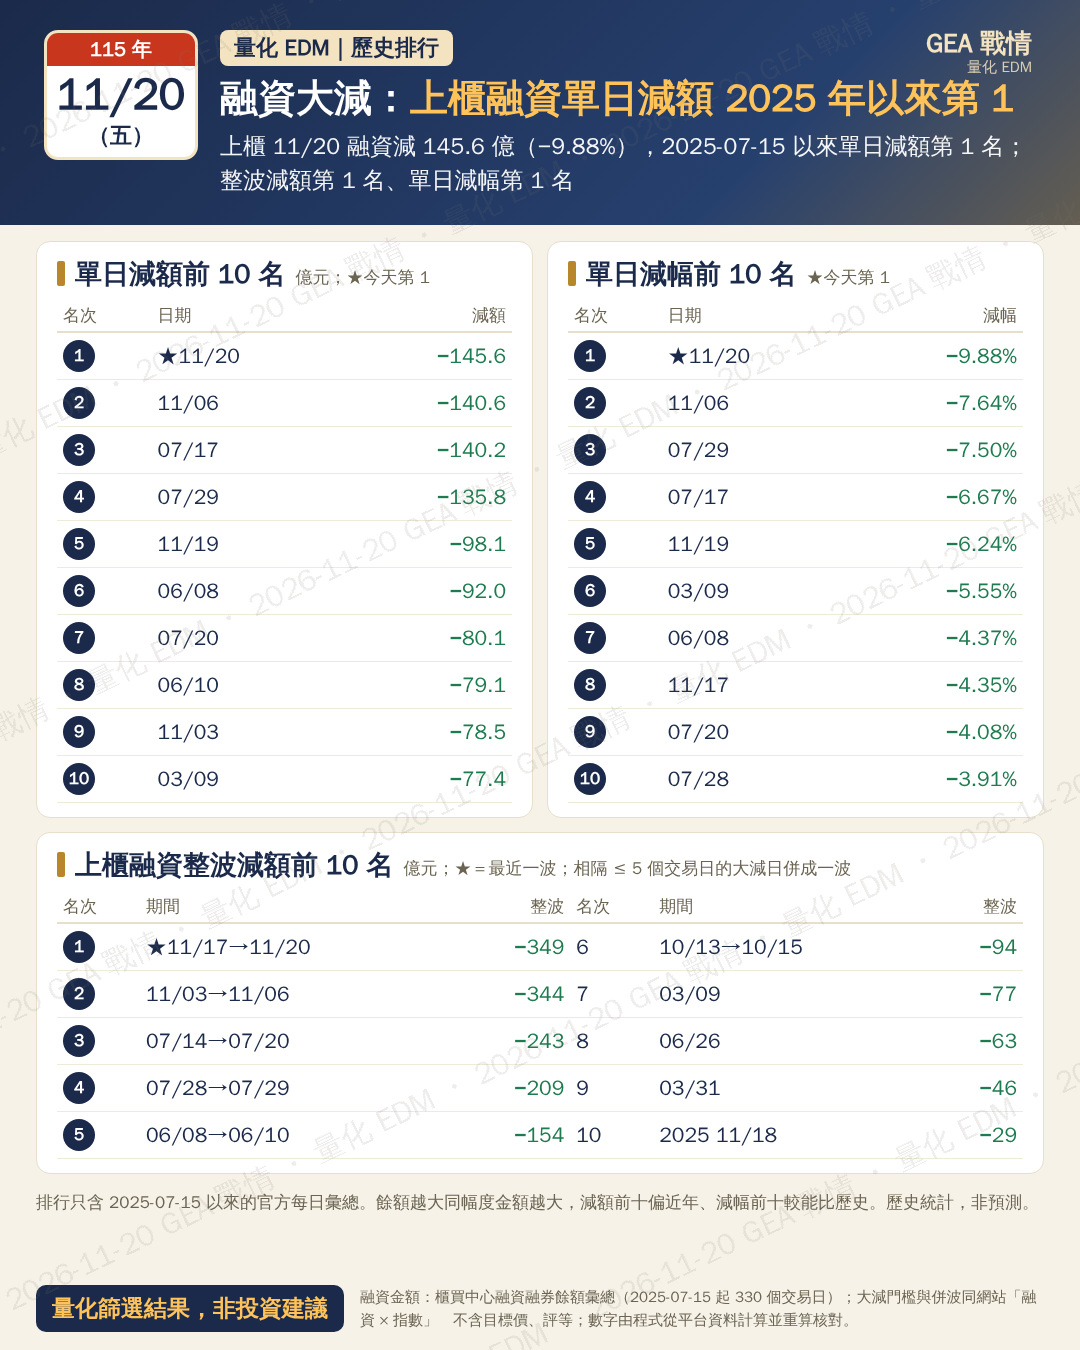
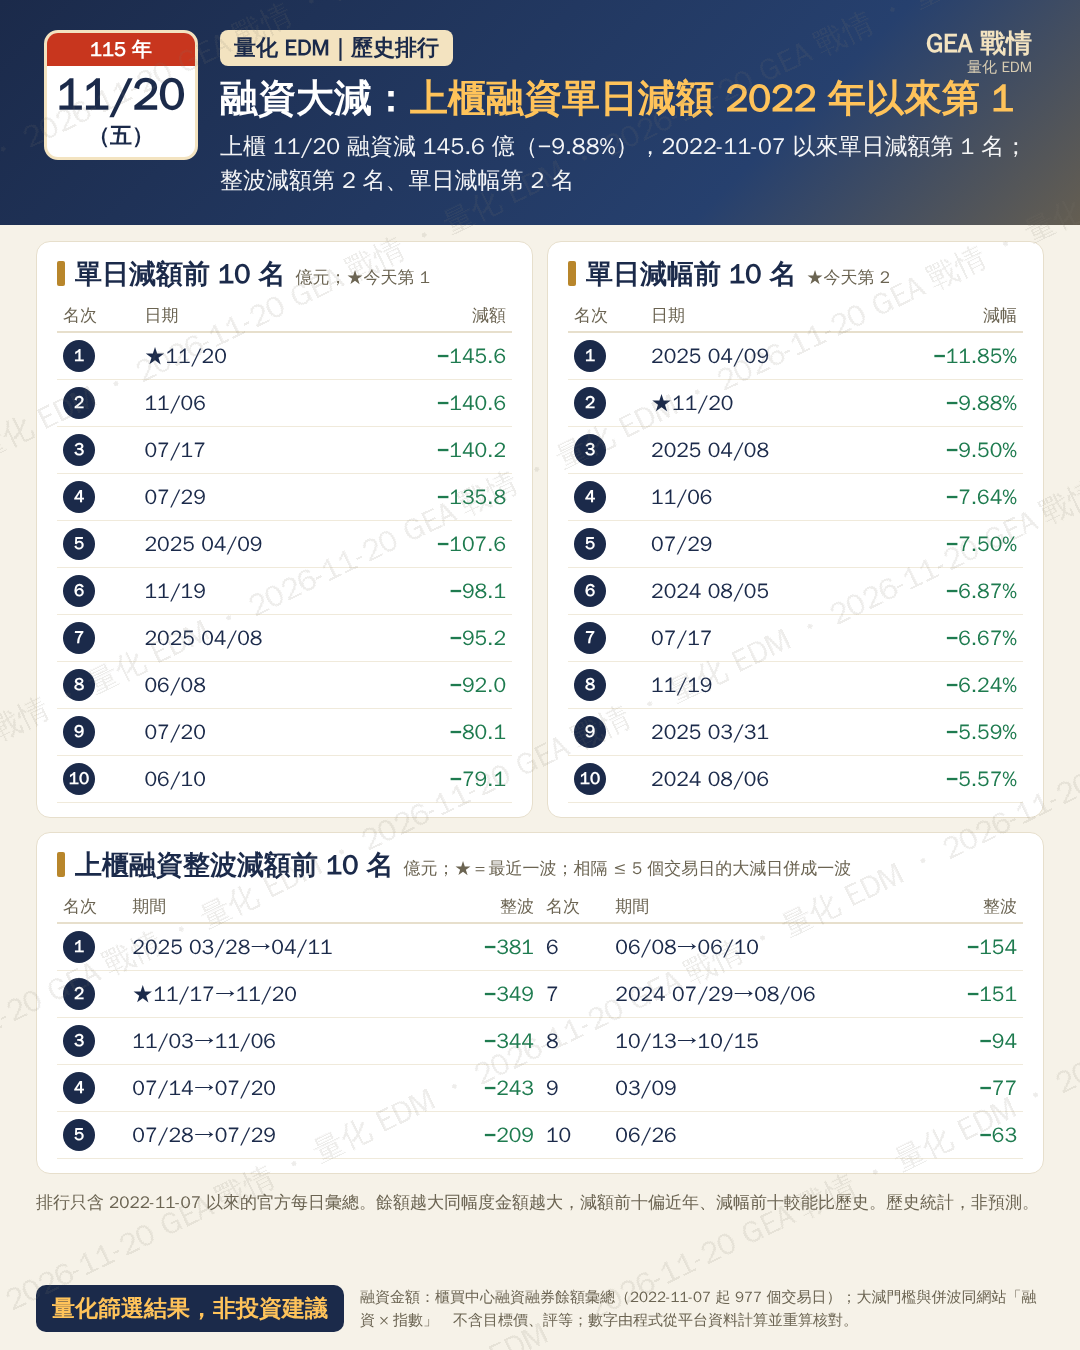
data: 重產 融資大減歷史排行預覽（回補到上市 2018-03-22、上櫃 2022-11-07）
Claude-Session: https://claude.ai/code/session_01XhYyy1fMrgxbe5XrPATpL6

diff --git a/docs/preview/mf_rank/index.html b/docs/preview/mf_rank/index.html
@@ -11,4 +11,4 @@ body{margin:0;background:#EDE7DA;font-family:"Noto Sans TC","Microsoft JhengHei"
 .c{font-size:13px;color:#6B6452;margin:6px 4px 0;overflow-wrap:anywhere}.c b.ok{color:#1E7B4F}.c b.ng{color:#C8361E}
 .c ul{margin:2px 0 0;padding-left:18px}
 </style></head><body><div class="w"><h1 style="font-size:22px">EDM 預覽：融資大減歷史排行（單日減額、單日減幅、整波前十；上市＋上櫃；正式版同一段程式）</h1>
-<div class="n"><b>要看的重點</b><ul><li>Evans 11-21：「融資禮拜五是歷史第一這個 EDM 有做嗎」→ 樣本從 2025-09-22 起拉長到官方每日彙總的起點（上市 2001、上櫃 2007 前後；回補中，卡上照實寫起點與天數）</li><li>三種排行各前 10 名：今天（★）進任一個前 10 才出卡；標題寫今天在哪一種排第幾</li><li>核對：回補序列跟網站 mkt_overlay 重疊區逐日比；每個上榜的大減日用回補檔同一天官方「前日餘額→今日餘額」重算，核對不過不出</li><li>現在每日戰情更新仍出舊版「融資大減」（mf_cut）；Evans 點頭後換成這張</li></ul></div><div class="g"><div class="i"><h2>上市融資大減歷史排行（示範：條件成立，資料日 2026-11-20 出卡）<a href="mf_rank_twse_y.png" download>下載 PNG</a></h2><a href="mf_rank_twse_y.png"><img src="mf_rank_twse_y.png" alt="歷史排行" loading="lazy"></a><div class="c"><b class="ok">核對通過</b>　上市回補跟 mkt_overlay 重疊 276 天（2025-09-22～2026-11-13）：全段最大差 14.62 億、差 &gt; 0.5 億 194 天（網站累推誤差，排行用官方原值）；接縫最後 20 天最大差 0.05 億；前 10 名與★共 21 個大減日用另一份原始資料重算，21 天一致<br>・正式版同一段 mf_rank()<br>・核對：上市回補跟 mkt_overlay 重疊 276 天（2025-09-22～2026-11-13）：全段最大差 14.62 億、差 &gt; 0.5 億 194 天（網站累推誤差，排行用官方原值）；接縫最後 20 天最大差 0.05 億；前 10 名與★共 21 個大減日用另一份原始資料重算，21 天一致</div></div><div class="i"><h2>上市融資大減歷史排行（示範：條件不成立，資料日 2026-11-13 不出）<a href="mf_rank_twse_n.png" download>下載 PNG</a></h2><div class="c"><b class="ok">核對通過</b>　不出卡<br>・正式版同一段 mf_rank()，這天不出<br>・原因：資料日 2026-11-13 上市融資增 31.2 億：單日減額第 — 名、減幅第 — 名、整波：最近 5 天沒有大減波（都不在前 10；樣本 2025-05-27 起 359 個交易日）</div></div><div class="i"><h2>上櫃融資大減歷史排行（示範：條件成立，資料日 2026-11-20 出卡）<a href="mf_rank_otc_y.png" download>下載 PNG</a></h2><a href="mf_rank_otc_y.png"><img src="mf_rank_otc_y.png" alt="歷史排行" loading="lazy"></a><div class="c"><b class="ok">核對通過</b>　上櫃回補跟 mkt_overlay 重疊 70 天（2026-08-03～2026-11-13）：全段最大差 0.0 億、差 &gt; 0.5 億 0 天（網站累推誤差，排行用官方原值）；接縫最後 20 天最大差 0.0 億；前 10 名與★共 20 個大減日用另一份原始資料重算，20 天一致<br>・正式版同一段 mf_rank()<br>・核對：上櫃回補跟 mkt_overlay 重疊 70 天（2026-08-03～2026-11-13）：全段最大差 0.0 億、差 &gt; 0.5 億 0 天（網站累推誤差，排行用官方原值）；接縫最後 20 天最大差 0.0 億；前 10 名與★共 20 個大減日用另一份原始資料重算，20 天一致</div></div><div class="i"><h2>上櫃融資大減歷史排行（示範：條件不成立，資料日 2026-11-16 不出）<a href="mf_rank_otc_n.png" download>下載 PNG</a></h2><div class="c"><b class="ok">核對通過</b>　不出卡<br>・正式版同一段 mf_rank()，這天不出<br>・原因：資料日 2026-11-16 上櫃融資減 42.9 億：單日減額第 19 名、減幅第 19 名、整波：最近 5 天沒有大減波（都不在前 10；樣本 2025-07-15 起 326 個交易日）</div></div></div></div></body></html>
+<div class="n"><b>要看的重點</b><ul><li>Evans 11-21：「融資禮拜五是歷史第一這個 EDM 有做嗎」→ 樣本從 2025-09-22 起拉長到官方每日彙總的起點（上市 2001、上櫃 2007 前後；回補中，卡上照實寫起點與天數）</li><li>三種排行各前 10 名：今天（★）進任一個前 10 才出卡；標題寫今天在哪一種排第幾</li><li>核對：回補序列跟網站 mkt_overlay 重疊區逐日比；每個上榜的大減日用回補檔同一天官方「前日餘額→今日餘額」重算，核對不過不出</li><li>現在每日戰情更新仍出舊版「融資大減」（mf_cut）；Evans 點頭後換成這張</li></ul></div><div class="g"><div class="i"><h2>上市融資大減歷史排行（示範：條件成立，資料日 2026-11-20 出卡）<a href="mf_rank_twse_y.png" download>下載 PNG</a></h2><a href="mf_rank_twse_y.png"><img src="mf_rank_twse_y.png" alt="歷史排行" loading="lazy"></a><div class="c"><b class="ng">核對沒過（這張不出）</b>　上市回補跟 mkt_overlay 重疊 276 天（2025-09-22～2026-11-13）：全段最大差 14.62 億、差 &gt; 0.5 億 194 天（網站累推誤差，排行用官方原值）；接縫最後 20 天最大差 0.05 億；前 10 名與★共 39 個大減日用另一份原始資料重算，36 天一致<ul><li>上市 2018-10-11 減 -118.8 億（-7.87%）≠ 回補檔同日前日→今日餘額 -115.2 億</li><li>上市 2021-05-13 減 -80.0 億（-3.27%）≠ 回補檔同日前日→今日餘額 -83.6 億</li><li>上市 2018-10-18 減 -38.9 億（-2.87%）≠ 回補檔同日前日→今日餘額 0.1 億</li></ul><br>・正式版同一段 mf_rank()<br>・核對：上市回補跟 mkt_overlay 重疊 276 天（2025-09-22～2026-11-13）：全段最大差 14.62 億、差 &gt; 0.5 億 194 天（網站累推誤差，排行用官方原值）；接縫最後 20 天最大差 0.05 億；前 10 名與★共 39 個大減日用另一份原始資料重算，36 天一致<br>・✗ 核對沒過 → 正式版這天不出：上市 2018-10-11 減 -118.8 億（-7.87%）≠ 回補檔同日前日→今日餘額 -115.2 億；上市 2021-05-13 減 -80.0 億（-3.27%）≠ 回補檔同日前日→今日餘額 -83.6 億；上市 2018-10-18 減 -38.9 億（-2.87%）≠ 回補檔同日前日→今日餘額 0.1 億</div></div><div class="i"><h2>上市融資大減歷史排行（示範：條件不成立，資料日 2026-11-16 不出）<a href="mf_rank_twse_n.png" download>下載 PNG</a></h2><div class="c"><b class="ok">核對通過</b>　不出卡<br>・正式版同一段 mf_rank()，這天不出<br>・原因：資料日 2026-11-16 上市融資減 121.0 億：單日減額第 23 名、減幅第 59 名、整波第 11 名（都不在前 10；樣本 2018-03-22 起 2,105 個交易日）</div></div><div class="i"><h2>上櫃融資大減歷史排行（示範：條件成立，資料日 2026-11-20 出卡）<a href="mf_rank_otc_y.png" download>下載 PNG</a></h2><a href="mf_rank_otc_y.png"><img src="mf_rank_otc_y.png" alt="歷史排行" loading="lazy"></a><div class="c"><b class="ok">核對通過</b>　上櫃回補跟 mkt_overlay 重疊 70 天（2026-08-03～2026-11-13）：全段最大差 0.0 億、差 &gt; 0.5 億 0 天（網站累推誤差，排行用官方原值）；接縫最後 20 天最大差 0.0 億；前 10 名與★共 28 個大減日用另一份原始資料重算，28 天一致<br>・正式版同一段 mf_rank()<br>・核對：上櫃回補跟 mkt_overlay 重疊 70 天（2026-08-03～2026-11-13）：全段最大差 0.0 億、差 &gt; 0.5 億 0 天（網站累推誤差，排行用官方原值）；接縫最後 20 天最大差 0.0 億；前 10 名與★共 28 個大減日用另一份原始資料重算，28 天一致</div></div><div class="i"><h2>上櫃融資大減歷史排行（示範：條件不成立，資料日 2026-11-16 不出）<a href="mf_rank_otc_n.png" download>下載 PNG</a></h2><div class="c"><b class="ok">核對通過</b>　不出卡<br>・正式版同一段 mf_rank()，這天不出<br>・原因：資料日 2026-11-16 上櫃融資減 42.9 億：單日減額第 24 名、減幅第 31 名、整波：最近 5 天沒有大減波（都不在前 10；樣本 2022-11-07 起 973 個交易日）</div></div></div></div></body></html>
